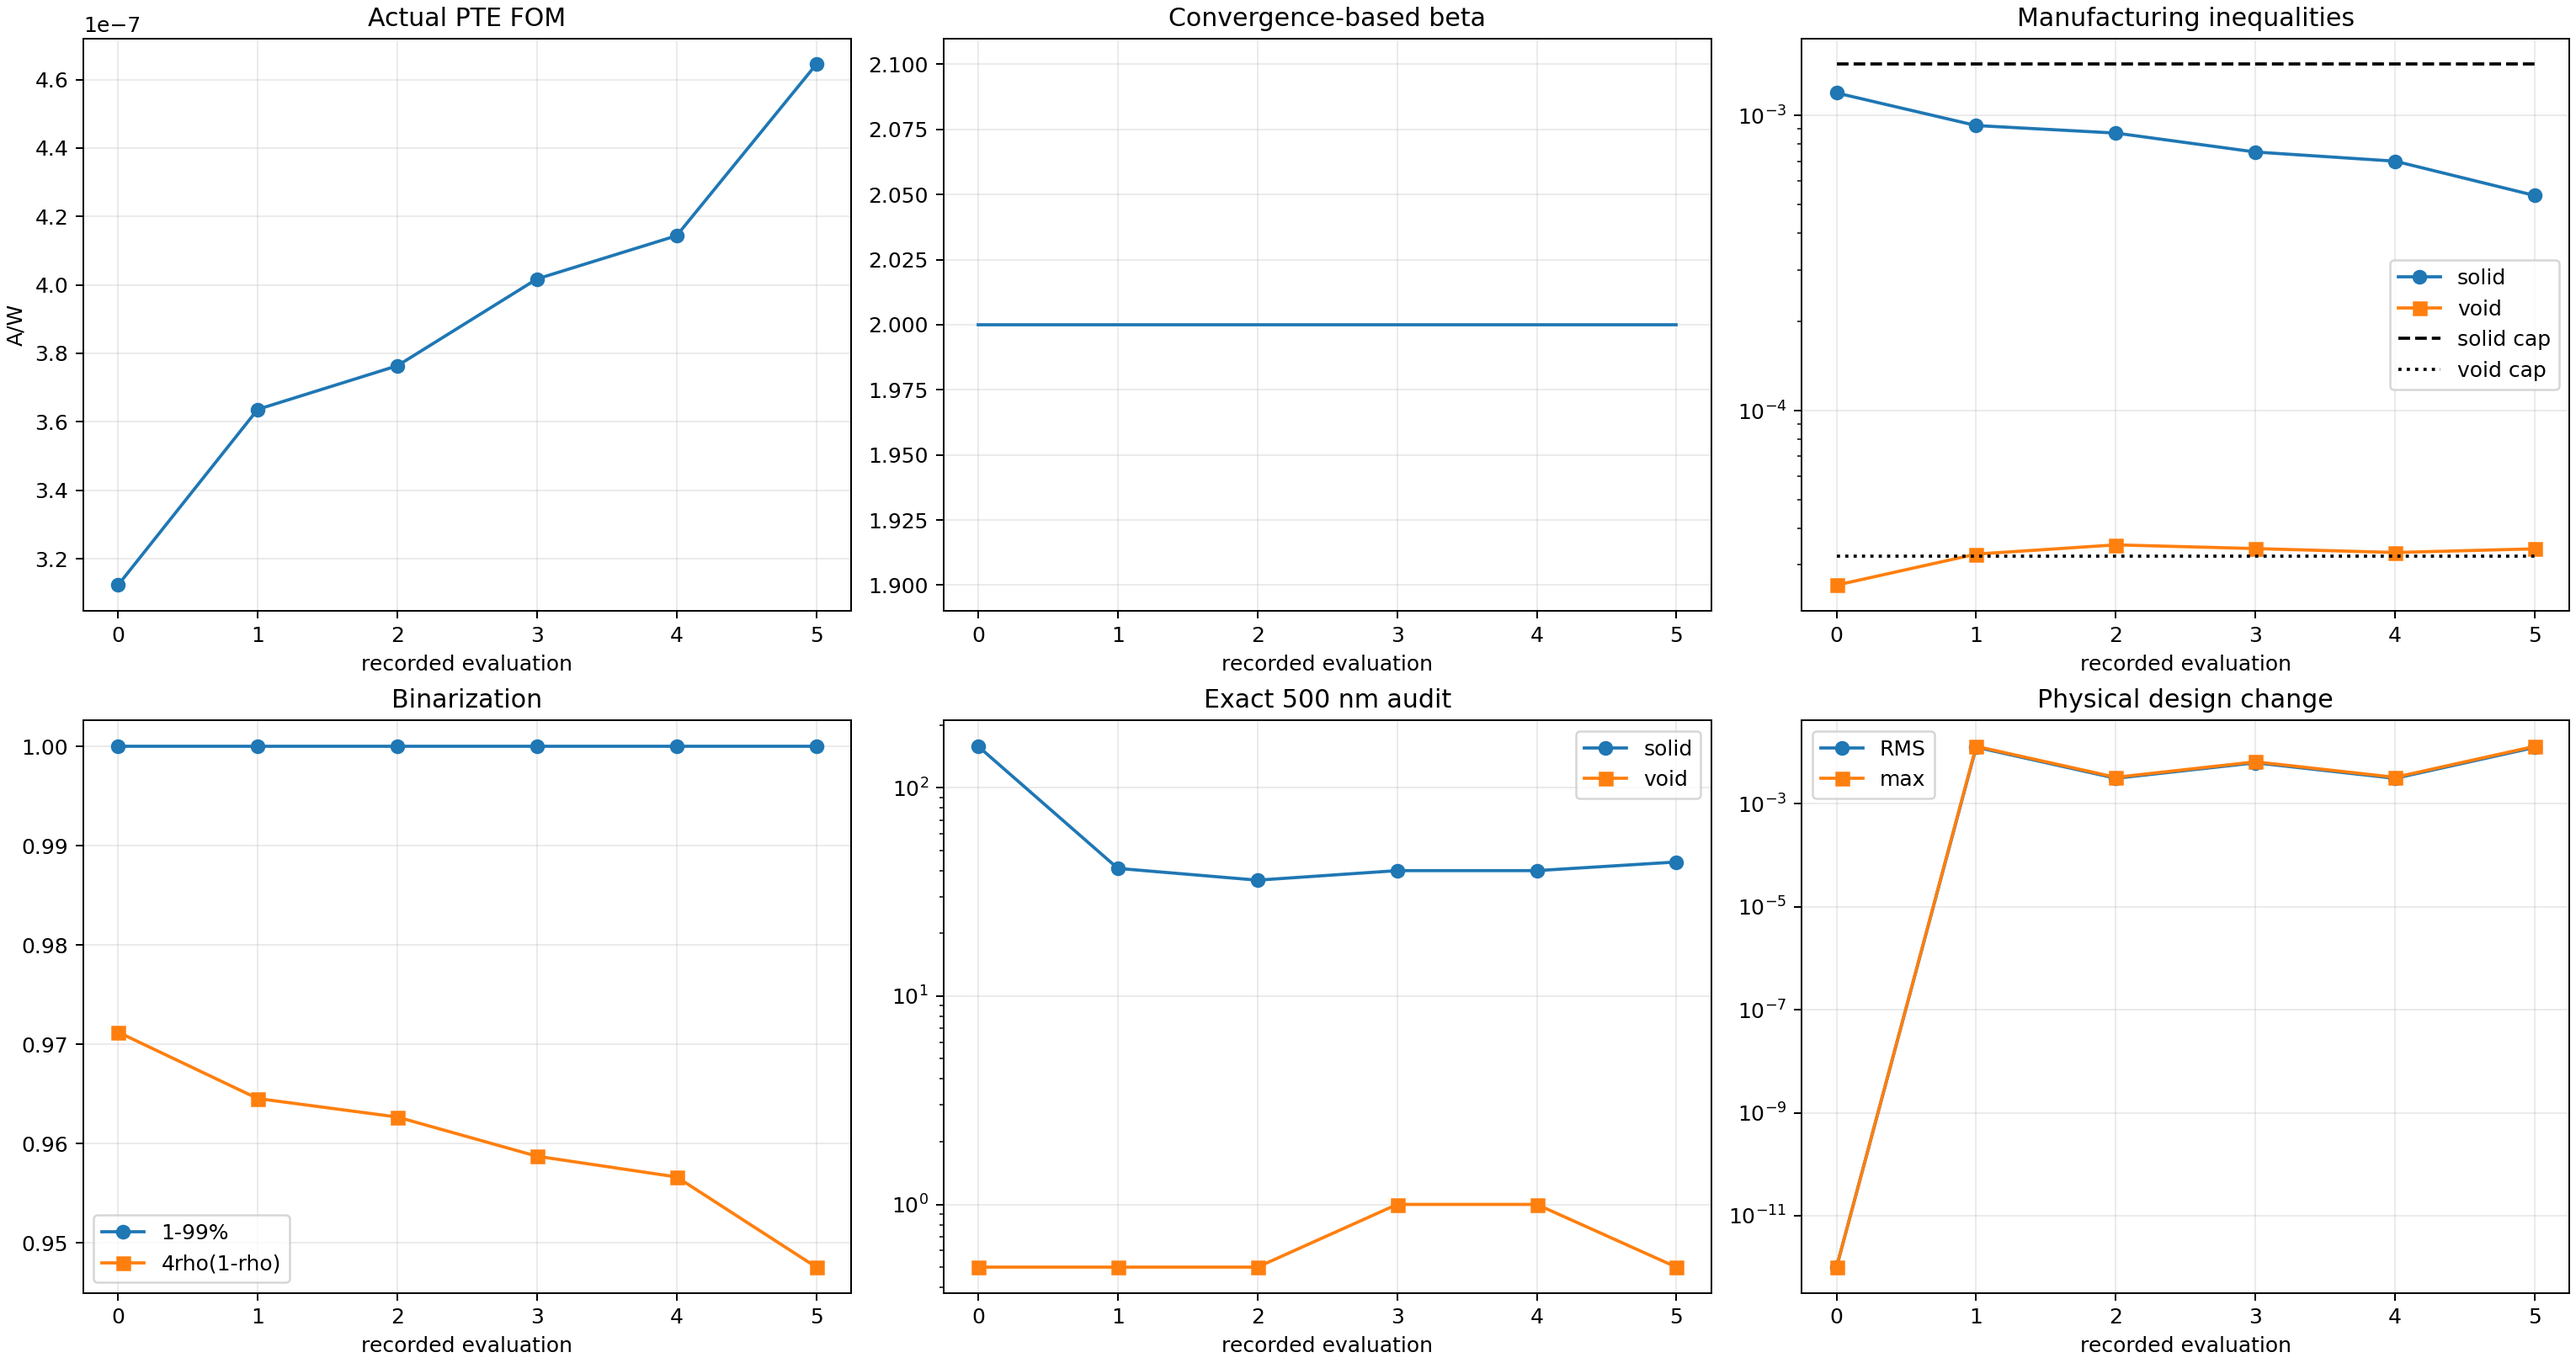
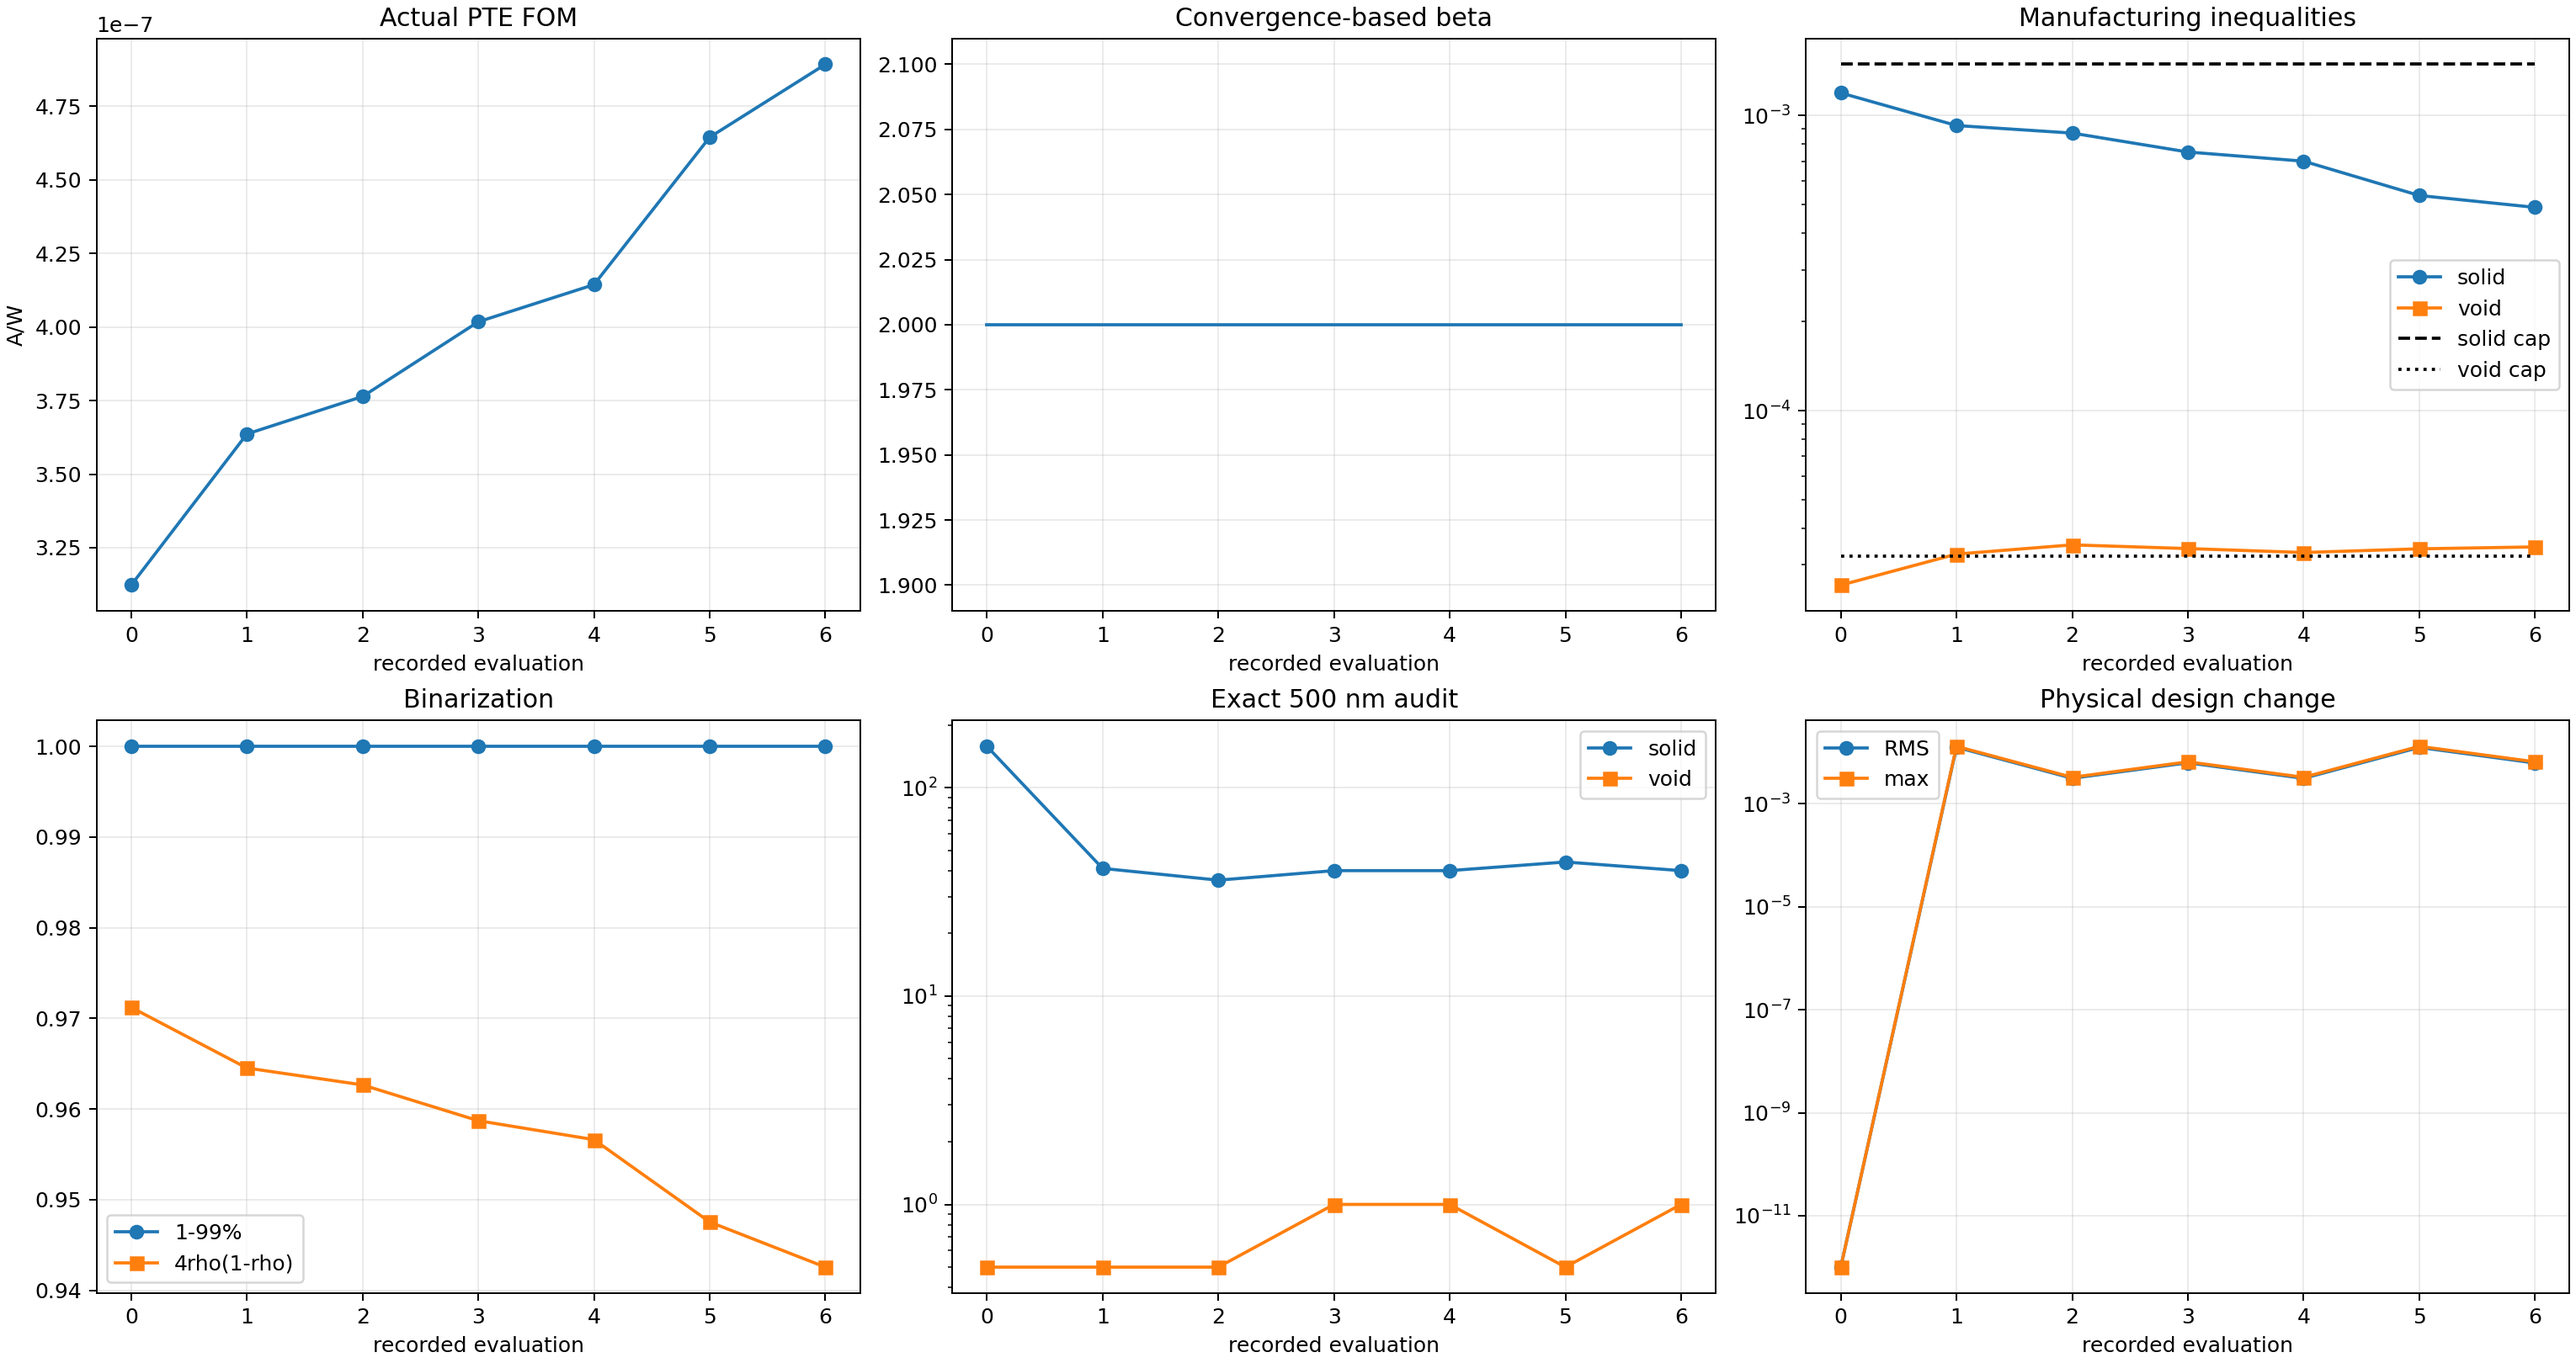
Record Run 005 run008_Ea_b002_s006_g006_accepted_mma

diff --git a/photothermal_pte/optimization_runs/run_008_corrected_Ea_objective_first_constrained/results/OPTIMIZATION_REPORT.md b/photothermal_pte/optimization_runs/run_008_corrected_Ea_objective_first_constrained/results/OPTIMIZATION_REPORT.md
@@ -2,12 +2,12 @@
 
 Status: `RUNNING_CORRECTED_EA_OBJECTIVE_FIRST_CONSTRAINED_OPTIMIZATION`
 
-Current stage: beta=2, accepted stage iteration=5, global iteration=5.
+Current stage: beta=2, accepted stage iteration=6, global iteration=6.
 
 Constraint contract: `soft_disk_opening_500nm_from_iteration_zero_v5`.
 
-Actual FOM: `4.644472539472e-07 A/W`. Fixed-cap solid/void constraints: `5.355916e-04` / `3.402163e-05` with caps `1.490220e-03` / `3.204288e-05`.
+Actual FOM: `4.892172513557e-07 A/W`. Fixed-cap solid/void constraints: `4.882516e-04` / `3.453595e-05` with caps `1.490220e-03` / `3.204288e-05`.
 
-Exact 500 nm bad cells: solid `44`, void `0`. Stage convergence: `False` (need at least 8 accepted updates).
+Exact 500 nm bad cells: solid `40`, void `1`. Stage convergence: `False` (need at least 8 accepted updates).
 
 Beta advances only after the stage FOM/density plateau. The run is not complete until the projected-binary and exact 500 nm gates pass and a fresh thresholded-binary GPU/CUDA evaluation succeeds.
